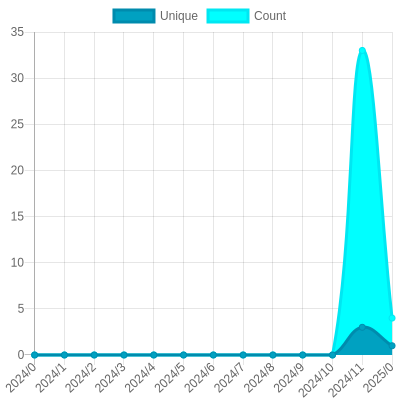
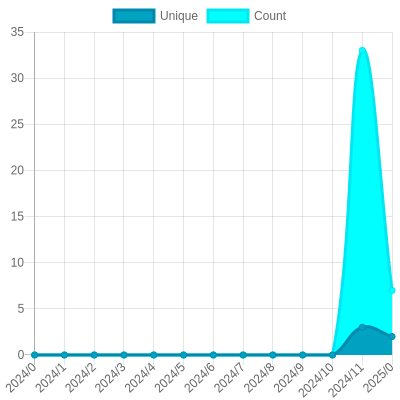
Update views

diff --git a/readme/456224675/year.md b/readme/456224675/year.md
@@ -23,10 +23,10 @@
 			<code>2024/1/1</code>
 		</td>
 		<td>
-			<code>1</code>
+			<code>2</code>
 		</td>
 		<td>
-			<code>4</code>
+			<code>7</code>
 		</td>
 	</tr>
 	<tr>
@@ -164,7 +164,7 @@
 </table>
 
 </details>
-<small><i>Last updated on 2024/1/11 1:07 AM UTC</i></small>
+<small><i>Last updated on 2024/1/11 6:19 AM UTC</i></small>
 
 ## ✂Copy and 📋 Paste
 ### SVG Badge

diff --git a/README.md b/README.md
@@ -53,7 +53,7 @@ The project created and maintained by [gayanvoice](https://github.com/gayanvoice
 	</tr>
 </table>
 
-<small><i>Last updated on 2024/1/11 1:07 AM UTC</i></small>
+<small><i>Last updated on 2024/1/11 6:19 AM UTC</i></small>
 
 ## ✂Copy and 📋 Paste
 ### Total Views Badge

diff --git a/readme/714109923/year.md b/readme/714109923/year.md
@@ -164,7 +164,7 @@
 </table>
 
 </details>
-<small><i>Last updated on 2024/1/11 1:07 AM UTC</i></small>
+<small><i>Last updated on 2024/1/11 6:19 AM UTC</i></small>
 
 ## ✂Copy and 📋 Paste
 ### SVG Badge
